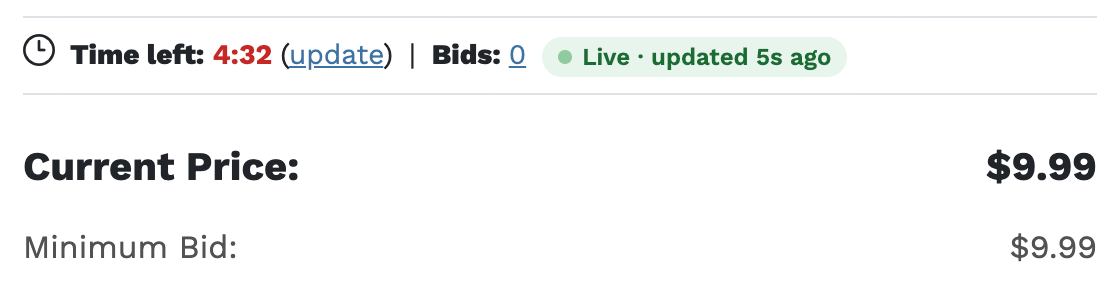
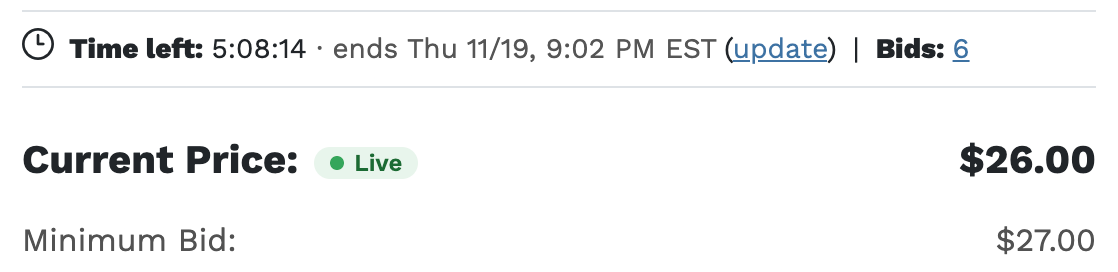
v1.3.0: Eastern end time beside the countdown
- Eastern Time 1.1.0: item pages show the end time in Eastern Time
  beside Time left (e.g. ends Thu 11/19, 9:02 PM EST), read from the
  Ends On line
- Live Auction 1.3.0: Live chip beside Current Price, last-check time
  in its tooltip, so the Time left line no longer wraps
- Updated Live Auction screenshot; 69 tests

diff --git a/scripts/shopgoodwill-eastern-time.user.js b/scripts/shopgoodwill-eastern-time.user.js
@@ -1,7 +1,7 @@
 // ==UserScript==
 // @name         shopgoodwill.com tools - Eastern Time
 // @namespace    https://github.com/maxhayim/shopgoodwill.com-tools
-// @version      1.0.1
+// @version      1.1.0
 // @description  Converts ShopGoodwill auction ending times from Pacific to Eastern Time.
 // @author       maxhayim
 // @license      MIT
@@ -55,6 +55,17 @@
     labeledTimes: [
       { labelSelector: 'th', label: /^(Ends|Ended|Ending|Starts|Started) On:?$/i }
     ],
+
+    // The item page's countdown ("Time left: 5h 12m") gets the Eastern end
+    // time beside it, taken from the Ends On line above.
+    endsBeside: {
+      container: 'app-bidding-control',
+      labelSelector: 'strong',
+      label: /^Time left:?$/i,
+      endsLabelSelector: 'th',
+      endsLabel: /^Ends On:?$/i,
+      className: 'sgwt-et-ends'
+    },
 
     // How many ancestor levels to search for the auction's closing date when
     // the date is not in the time element itself. A level is only used if it
@@ -317,6 +328,27 @@
     };
   }
 
+  var WEEKDAYS = ['Sun', 'Mon', 'Tue', 'Wed', 'Thu', 'Fri', 'Sat'];
+
+  /**
+   * Short Eastern end time for the countdown, from an Ends On value in either
+   * Pacific ("11/19/2026 06:02:00 PM PT") or already-converted Eastern form.
+   * Returns e.g. "Thu 11/19, 9:02 PM EST", or null if it can't be read.
+   */
+  function shortEasternEnd(text) {
+    if (!text) return null;
+    var conv = convertText(text);
+    var eastern = conv ? conv.text : text;
+    var d = /\b(\d{1,2})\/(\d{1,2})\/(\d{4})\b/.exec(eastern);
+    var t = /(\d{1,2}):(\d{2})(?::\d{2})?\s*(AM|PM)\s*(EDT|EST|ET)\b/i.exec(eastern);
+    if (!d || !t) return null;
+    var month = +d[1], day = +d[2], year = +d[3];
+    if (!isValidDate(year, month, day)) return null;
+    var weekday = WEEKDAYS[new Date(Date.UTC(year, month - 1, day)).getUTCDay()];
+    return weekday + ' ' + month + '/' + day + ', ' + (+t[1]) + ':' + t[2] + ' ' +
+      t[3].toUpperCase() + ' ' + t[4].toUpperCase();
+  }
+
   function tooltipFor(conv) {
     var tip = 'Original: ' + conv.original + ' (Pacific Time)';
     if (!conv.result.certain) {
@@ -410,6 +442,48 @@
     return true;
   }
 
+  function findLabel(root, selector, re) {
+    var list = root.querySelectorAll(selector);
+    for (var i = 0; i < list.length; i++) {
+      if (re.test((list[i].textContent || '').trim())) return list[i];
+    }
+    return null;
+  }
+
+  // Puts "· ends Thu 11/19, 9:02 PM EST" right after the countdown value.
+  // Returns true if anything changed.
+  function addEndsBeside(root, config) {
+    var def = config.endsBeside;
+    if (!def || typeof root.querySelectorAll !== 'function') return false;
+    var doc = root.ownerDocument || root;
+    var containers = root.querySelectorAll(def.container);
+    if (!containers.length) return false;
+    var endsLabel = findLabel(root, def.endsLabelSelector, def.endsLabel);
+    var ends = endsLabel && endsLabel.nextElementSibling;
+    var short = ends ? shortEasternEnd(spacedText(ends).replace(/\s+/g, ' ').trim()) : null;
+    if (!short) return false;
+    var text = ' \u00b7 ends ' + short;
+    var changed = false;
+    for (var i = 0; i < containers.length; i++) {
+      var label = findLabel(containers[i], def.labelSelector, def.label);
+      var value = label && label.nextElementSibling;
+      if (!value) continue;
+      var next = value.nextElementSibling;
+      var el = next && next.className === def.className ? next : null;
+      if (!el) {
+        el = doc.createElement('span');
+        el.className = def.className;
+        el.setAttribute('style', 'color:#555;font-weight:400;white-space:nowrap;margin-right:.25em');
+        value.parentElement.insertBefore(el, value.nextSibling);
+        changed = true;
+      }
+      if (el.textContent !== text) { el.textContent = text; changed = true; }
+      var tip = 'Auction ends ' + short + ' (Eastern Time)';
+      if (el.getAttribute('title') !== tip) el.setAttribute('title', tip);
+    }
+    return changed;
+  }
+
   // Converts every matching element under root. Returns how many changed.
   function scan(root, config) {
     config = config || CONFIG;
@@ -429,6 +503,7 @@
         if (value && def.label.test((labels[i].textContent || '').trim()) && processElement(value, config)) changed++;
       }
     });
+    if (addEndsBeside(root, config)) changed++;
     return changed;
   }
 
@@ -491,6 +566,8 @@
     formatTime: formatTime,
     convertPacificToEastern: convertPacificToEastern,
     convertText: convertText,
+    shortEasternEnd: shortEasternEnd,
+    addEndsBeside: addEndsBeside,
     findClosingDate: findClosingDate,
     processElement: processElement,
     scan: scan,

diff --git a/scripts/shopgoodwill-live-auction.user.js b/scripts/shopgoodwill-live-auction.user.js
@@ -1,7 +1,7 @@
 // ==UserScript==
 // @name         shopgoodwill.com tools - Live Auction
 // @namespace    https://github.com/maxhayim/shopgoodwill.com-tools
-// @version      1.2.0
+// @version      1.3.0
 // @description  Keeps the price, bid count and a to-the-second countdown up to date on ShopGoodwill item pages without reloading.
 // @author       maxhayim
 // @license      MIT
@@ -134,19 +134,27 @@
   // ---------------------------------------------------------------------------
   // DOM helpers.
   // ---------------------------------------------------------------------------
-  function textOf(el) { return (el && el.textContent || '').replace(/\s+/g, ' ').trim(); }
+
+  // Label text without our own chip, so "Current Price: ● Live" still
+  // matches the Current Price label.
+  function labelText(el) {
+    var text = el && el.textContent || '';
+    var chips = el && el.querySelectorAll ? el.querySelectorAll('[data-sgwt-chip]') : [];
+    for (var i = 0; i < chips.length; i++) text = text.replace(chips[i].textContent || '', '');
+    return text.replace(/\s+/g, ' ').trim();
+  }
 
   // Finds the element whose own text matches `re` inside root.
   function findLabel(root, re) {
     var all = root.querySelectorAll('strong,h3,p,span,div');
     for (var i = 0; i < all.length; i++) {
       var el = all[i];
-      var text = textOf(el);
+      var text = labelText(el);
       if (!re.test(text)) continue;
       // Skip wrappers: a child holding the same text is the real label.
       var wrapper = false;
       for (var c = 0; c < el.children.length; c++) {
-        if (textOf(el.children[c]) === text) { wrapper = true; break; }
+        if (labelText(el.children[c]) === text) { wrapper = true; break; }
       }
       if (!wrapper) return el;
     }
@@ -192,6 +200,7 @@
     t.bids = [];
     for (var n = bidsLabel && bidsLabel.nextElementSibling; n; n = n.nextElementSibling) t.bids.push(n);
     var priceLabel = findLabel(panel, L.price);
+    t.priceLabel = priceLabel;
     t.price = priceLabel && valueInRow(priceLabel);
     var minLabel = findLabel(panel, L.minimumBid);
     t.minimumBid = minLabel && valueInRow(minLabel);
@@ -284,11 +293,14 @@
       if (chip) {
         var ended = left === 0;
         chip.className = P + '-chip' + (ended ? ' ' + P + '-ended' : state.paused ? ' ' + P + '-paused' : '');
+        // Kept to one short word so it fits on the Time left line; the age of
+        // the last check is in the tooltip.
         chip.lastChild.textContent = ended ? 'Ended' : state.paused ? 'Paused' :
-          'Live · ' + (state.error ? 'retrying' : 'updated ' + ago(Date.now() - state.fetchedAt));
+          state.error ? 'Retrying' : 'Live';
         chip.title = ended ? 'This auction has ended.' : state.paused
           ? 'Live updates are paused. Click to resume.'
-          : 'Price, bids and time left update automatically. Click to pause.';
+          : (state.error ? 'Last check failed, retrying. ' : 'Updated ' + ago(Date.now() - state.fetchedAt) + '. ') +
+            'Price, bids and time left update automatically. Click to pause.';
       }
       if (config.showInTabTitle && state.baseTitle) {
         doc.title = left === 0 ? state.baseTitle : tabTitle(state.baseTitle, left, state.detail.currentPrice);
@@ -308,16 +320,18 @@
       var chip = doc.createElement('span');
       chip.className = P + '-chip';
       chip.setAttribute('role', 'button');
+      chip.setAttribute('data-sgwt-chip', '');
       chip.setAttribute('tabindex', '0');
       chip.appendChild(doc.createElement('i'));
       chip.appendChild(doc.createElement('span'));
       chip.lastChild.textContent = 'Live';
       chip.addEventListener('click', togglePause);
       chip.addEventListener('keydown', function (e) { if (e.key === 'Enter' || e.key === ' ') { e.preventDefault(); togglePause(); } });
-      // End of the "Time left | Bids" bar; next to the price if that bar is missing.
-      var anchor = targets.timeLeft && targets.timeLeft.parentElement && targets.timeLeft.parentElement.parentElement
-        ? targets.timeLeft.parentElement.parentElement
-        : targets.price;
+      // Beside the "Current Price:" label, which has room to spare (the Time
+      // left bar is full once the Eastern end time is shown there). Falls back
+      // to the end of the Time left bar, then the price itself.
+      var bar = targets.timeLeft && targets.timeLeft.parentElement && targets.timeLeft.parentElement.parentElement;
+      var anchor = targets.priceLabel || bar || targets.price;
       anchor.appendChild(chip);
       state.chip = chip;
       poll();

diff --git a/tests/timezone.test.js b/tests/timezone.test.js
@@ -44,6 +44,18 @@ class Element {
     return child;
   }
   get textContent() { return this.childNodes.map((c) => c.textContent).join(''); }
+  set textContent(v) { this.childNodes = []; this.appendChild(new TextNode(v)); }
+  get nextSibling() {
+    if (!this.parentElement) return null;
+    const sibs = this.parentElement.childNodes;
+    return sibs[sibs.indexOf(this) + 1] || null;
+  }
+  insertBefore(child, ref) {
+    const i = ref ? this.childNodes.indexOf(ref) : -1;
+    this.appendChild(child);
+    if (i >= 0) { this.childNodes.pop(); this.childNodes.splice(i, 0, child); }
+    return child;
+  }
   getAttribute(n) { return Object.prototype.hasOwnProperty.call(this.attributes, n) ? this.attributes[n] : null; }
   setAttribute(n, v) { this.attributes[n] = String(v); }
   hasAttribute(n) { return Object.prototype.hasOwnProperty.call(this.attributes, n); }
@@ -352,4 +364,47 @@ test('"Ends On" late at night moves the date too', () => {
   const body = new Element('body', '', [new Element('tr', '', [new Element('th', '', ['Ends On:']), td])]);
   sgw.scan(body);
   assert.equal(td.textContent, '9/1/2026 1:30:00 AM EDT');
+});
+
+// ---------------------------------------------------------------------------
+// Eastern end time beside the item page countdown.
+// ---------------------------------------------------------------------------
+test('shortEasternEnd reads Pacific or already-converted Ends On values', () => {
+  assert.equal(sgw.shortEasternEnd('11/19/2026 06:02:00 PM PT'), 'Thu 11/19, 9:02 PM EST');
+  assert.equal(sgw.shortEasternEnd('11/19/2026 09:02:00 PM EST'), 'Thu 11/19, 9:02 PM EST');
+  assert.equal(sgw.shortEasternEnd('7/4/2026 10:30:00 PM PT'), 'Sun 7/5, 1:30 AM EDT');
+  assert.equal(sgw.shortEasternEnd('soon'), null);
+});
+
+function itemPage(endsText, timeLeft) {
+  const doc = { createElement: (tag) => new Element(tag), _notify() {} };
+  const value = new Element('span', '', [timeLeft]);
+  const ends = new Element('td', '', [endsText]);
+  const bar = new Element('span', 'ng-star-inserted', [
+    new Element('strong', '', ['Time left:']), value, new Element('p', '', ['(update)'])
+  ]);
+  const body = new Element('body', '', [
+    new Element('app-bidding-control', '', [new Element('div', '', [bar])]),
+    new Element('table', '', [new Element('tr', '', [new Element('th', '', ['Ends On:']), ends])])
+  ]);
+  body.ownerDocument = doc;
+  return { body, bar, value, ends };
+}
+
+test('adds the Eastern end time right after the countdown, once', () => {
+  const p = itemPage('11/19/2026 06:02:00 PM PT', '5h 18m');
+  sgw.scan(p.body);
+  const added = p.value.nextElementSibling;
+  assert.equal(added.className, 'sgwt-et-ends');
+  assert.equal(added.textContent, ' \u00b7 ends Thu 11/19, 9:02 PM EST');
+  assert.equal(p.bar.textContent, 'Time left:5h 18m \u00b7 ends Thu 11/19, 9:02 PM EST(update)');
+  assert.equal(p.ends.textContent, '11/19/2026 9:02:00 PM EST');
+  assert.equal(sgw.scan(p.body), 0);
+  assert.equal(p.bar.querySelectorAll('span.sgwt-et-ends').length, 1);
+});
+
+test('no Ends On line: the countdown is left alone', () => {
+  const p = itemPage('', '5h 18m');
+  sgw.scan(p.body);
+  assert.equal(p.value.nextElementSibling.tagName, 'P');
 });

diff --git a/tests/live-auction.test.js b/tests/live-auction.test.js
@@ -52,14 +52,18 @@ class E {
     kids.forEach((k) => this.add(typeof k === 'string' ? new T(k) : k));
   }
   add(k) { k.parentElement = this; this.childNodes.push(k); return this; }
+  setAttribute(n, v) { (this.attrs = this.attrs || {})[n] = String(v); }
   get children() { return this.childNodes.filter((c) => c.nodeType === 1); }
   get firstElementChild() { return this.children[0] || null; }
   get nextElementSibling() { const s = this.parentElement.children; return s[s.indexOf(this) + 1] || null; }
   get textContent() { return this.childNodes.map((c) => c.textContent).join(''); }
   querySelectorAll(sel) {
-    const tags = sel.split(',').map((t) => t.trim().toUpperCase());
+    const parts = sel.split(',').map((t) => t.trim());
+    const hit = (c) => parts.some((p) => p.startsWith('[')
+      ? !!(c.attrs && Object.prototype.hasOwnProperty.call(c.attrs, p.slice(1, -1)))
+      : p.toUpperCase() === c.tagName);
     const out = [];
-    const walk = (e) => e.children.forEach((c) => { if (tags.includes(c.tagName)) out.push(c); walk(c); });
+    const walk = (e) => e.children.forEach((c) => { if (hit(c)) out.push(c); walk(c); });
     walk(this);
     return out;
   }
@@ -93,6 +97,18 @@ test('finds the values by their labels', () => {
   assert.deepEqual(t.bids, [p.bidsA, p.bidsPrint]);
   assert.equal(t.price, p.price);
   assert.equal(t.minimumBid, p.minBid);
+});
+
+test('the Live chip sits in the Current Price label without hiding it', () => {
+  const p = panel();
+  const t = L.findTargets(p.root, L.CONFIG);
+  assert.equal(t.priceLabel.textContent, 'Current Price:');
+  const chip = new E('span', [new E('i'), new E('span', ['Live'])]);
+  chip.setAttribute('data-sgwt-chip', '');
+  t.priceLabel.add(chip);
+  const again = L.findTargets(p.root, L.CONFIG);
+  assert.equal(again.priceLabel, t.priceLabel);
+  assert.equal(again.price, p.price);
 });
 
 test('setText only changes the text, keeping spacing and other children', () => {

diff --git a/README.md b/README.md
@@ -46,7 +46,7 @@ The tools don't depend on each other and work together on the same page.
 <table>
   <tr>
     <td width="50%"><img src="assets/screenshots/shipping-item.png" alt="Shipping breakdown box on an item page"><br><em>Shipping & Handling on an item page</em></td>
-    <td width="50%"><img src="assets/screenshots/live-auction.png" alt="Countdown in red with a Live, updated 5s ago chip"><br><em>Live Auction in the final minutes</em></td>
+    <td width="50%"><img src="assets/screenshots/live-auction.png" alt="Time left 5:08:14, ends Thu 11/19, 9:02 PM EST, and a Live chip beside Current Price"><br><em>Live Auction countdown with the Eastern end time beside it</em></td>
   </tr>
   <tr>
     <td><img src="assets/screenshots/bid-alerts-panel.png" alt="Bid alerts panel listing an outbid item, one within the max and one ended, plus settings"><br><em>Bid Alerts overview and settings</em></td>
@@ -69,6 +69,7 @@ The tools don't depend on each other and work together on the same page.
 - Uses the auction's closing date when it is on the page, never today's date.
 - Handles times that cross midnight, for example `10:30:00 PM PST` → `1:30:00 AM EST (next day)`.
 - Keeps the original Pacific time in a tooltip: hover over a converted time to see it.
+- On item pages, shows the end time in Eastern Time right beside the countdown: **Time left: 5h 18m · ends Thu 11/19, 9:02 PM EST**.
 - Also converts the item page's **Ends On** line (`11/23/2026 07:56:00 PM PT` → `11/23/2026 10:56:00 PM EST`), using its date for EST/EDT.
 - Works on pages Angular loads or redraws after the page opens (search results, paging, item pages).
 - Converts each time once, and converts again only if the site puts a new Pacific time in its place.
@@ -89,7 +90,7 @@ The tools don't depend on each other and work together on the same page.
 
 - **Time left** becomes a countdown that ticks every second (`1:45:41`), turning red in the last five minutes.
 - The current price, bid count and minimum bid refresh on their own, and briefly highlight when they change.
-- A **Live · updated 4s ago** chip next to the price shows when the page last checked. Click it to pause or resume.
+- A **Live** chip beside **Current Price** shows the updates are on; hover it to see when the page last checked. Click it to pause or resume.
 - The browser tab title shows the countdown and price (`⏱ 1:45:41 · $19.99 | …`), so you can follow an auction from another tab.
 - Checks more often as the end gets closer (every minute when days are left, every 4 seconds in the final 2 minutes), slows down while the tab is in the background, and stops when the auction ends.
 - The countdown uses ShopGoodwill's server clock, so it's right even if your computer's clock is off.

diff --git a/CHANGELOG.md b/CHANGELOG.md
@@ -2,6 +2,15 @@
 
 All notable changes to this project are documented here. This project uses [Semantic Versioning](https://semver.org/).
 
+## v1.3.0 — End time beside the countdown
+
+Release date: November 19, 2026
+
+- **Eastern Time 1.1.0:** item pages show the end time in Eastern Time right beside the countdown, e.g. **Time left: 5h 18m · ends Thu 11/19, 9:02 PM EST**. It is read from the item's Ends On line, so EST/EDT follows the auction's own date.
+- **Live Auction 1.3.0:** the Live chip moved beside **Current Price** and shows just **Live** (the time of the last check is in its tooltip), so the Time left line stays on one line.
+- 3 new automated tests (69 in total).
+- Checked on a live ShopGoodwill item page in Chrome, with the countdown ticking next to the Eastern end time.
+
 ## v1.2.0 — Bid Alerts
 
 Release date: November 18, 2026
